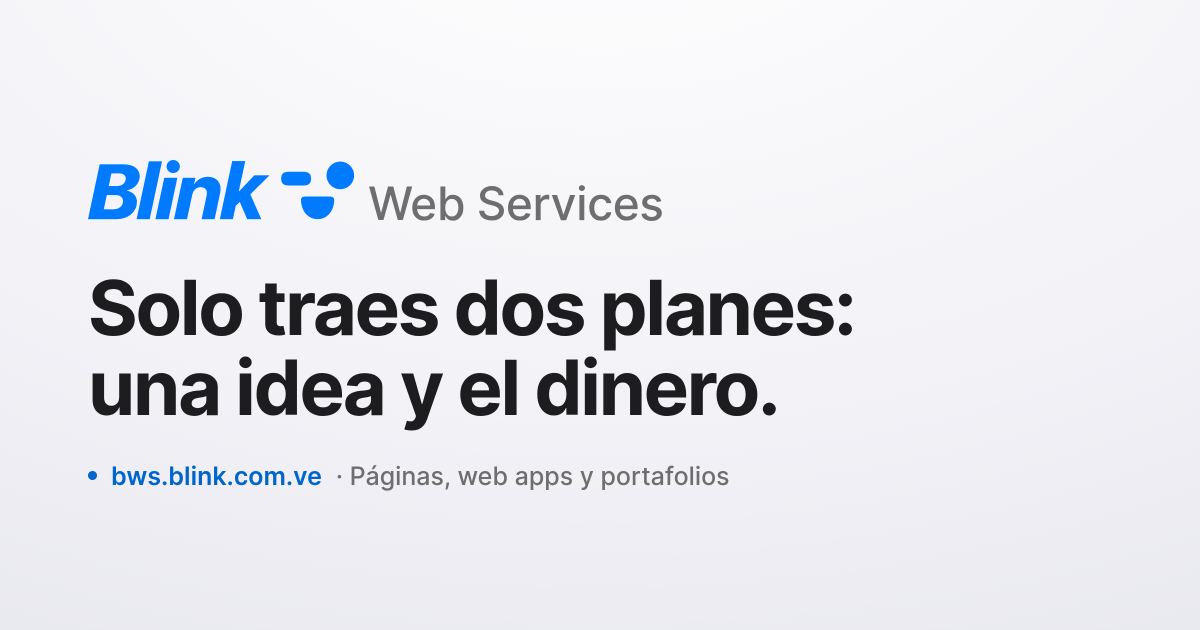
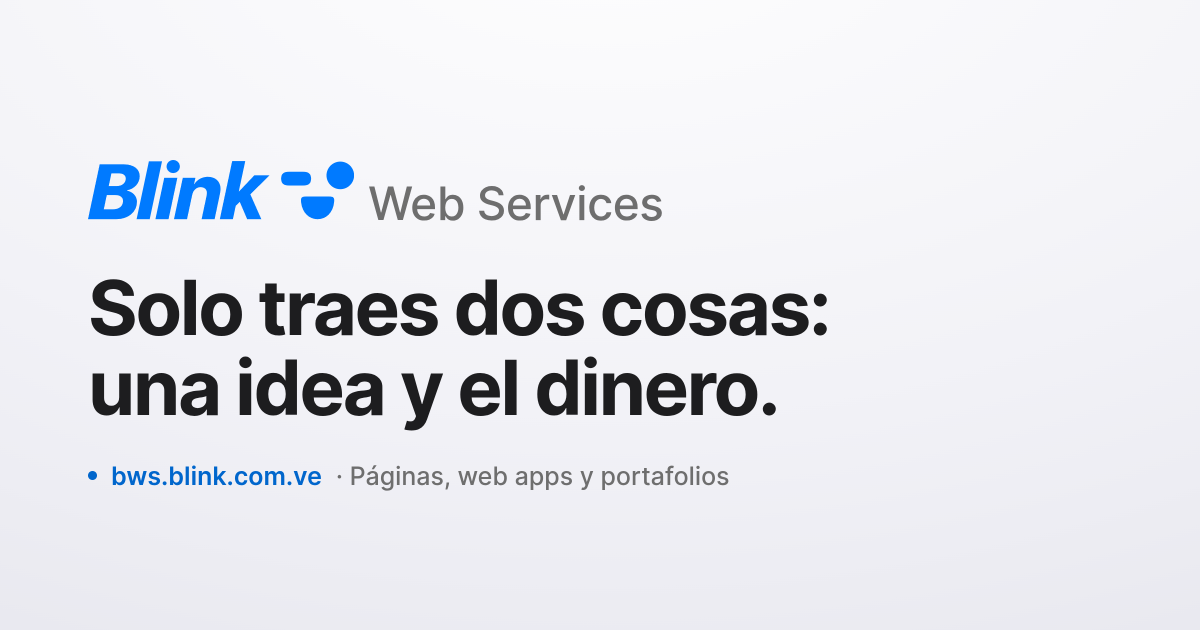
Cambia la frase ancla a «Solo traes dos cosas»
El titular del hero decía «dos planes»; el dueño de la marca lo corrige
a «dos cosas». Se mueven las cinco cadenas de `index.html` (title,
og:title, og:image:alt, twitter:title, twitter:image:alt), el `HERO` de
`contenido.ts`, el `<h1>` que pinta `scripts/og.mjs` y el README.

La tarjeta social lleva el titular dibujado, así que `public/og.png` se
regenera con `npm run og` en vez de editar el PNG a mano.

El corte del titular vuelve a medirse con `scripts/medir-titular.mjs`,
que ahora también prueba 2,375rem: en un iPhone de 390 la frase nueva da
3 líneas [249, 272, 190] a 38 px y 2 líneas [314, 292] a 32 px dentro de
los 358 px del contenedor. El mínimo del `clamp()` se queda en 2rem por
la misma razón de antes, con números nuevos en el comentario del CSS.

Verificado tras el cambio: build limpio, cero overflow horizontal en
390/768/1440 y axe sin violaciones en los dos anchos.

`.capturas.zip` pasa al `.gitignore`: es un zip de un directorio que ya
estaba ignorado y no tiene por qué viajar al repo.

Changed region(s): [[0.4933, 0.4222, 0.7092, 0.573]]

diff --git a/index.html b/index.html
@@ -3,7 +3,7 @@
 <head>
   <meta charset="utf-8">
   <meta name="viewport" content="width=device-width, initial-scale=1">
-  <title>Blink Web Services — Solo traes dos planes: una idea y el dinero</title>
+  <title>Blink Web Services — Solo traes dos cosas: una idea y el dinero</title>
   <meta name="description" content="Páginas web, web apps y portafolios. Tu dirección en Internet, tu correo con el nombre de tu empresa y todo el trámite por nuestra cuenta. El cliente solo llega con una idea y dinero para pagarla.">
   <link rel="canonical" href="https://bws.blink.com.ve/">
   <meta name="theme-color" content="#ffffff">
@@ -12,18 +12,18 @@
   <meta property="og:type" content="website">
   <meta property="og:site_name" content="Blink Web Services">
   <meta property="og:locale" content="es_VE">
-  <meta property="og:title" content="Blink Web Services — Solo traes dos planes: una idea y el dinero">
+  <meta property="og:title" content="Blink Web Services — Solo traes dos cosas: una idea y el dinero">
   <meta property="og:description" content="Páginas web, web apps y portafolios. Del resto nos encargamos nosotros: el trámite, la publicación y que todo siga andando.">
   <meta property="og:url" content="https://bws.blink.com.ve/">
   <meta property="og:image" content="https://bws.blink.com.ve/og.png">
   <meta property="og:image:width" content="1200">
   <meta property="og:image:height" content="630">
-  <meta property="og:image:alt" content="Blink Web Services — Solo traes dos planes: una idea y el dinero.">
+  <meta property="og:image:alt" content="Blink Web Services — Solo traes dos cosas: una idea y el dinero.">
   <meta name="twitter:card" content="summary_large_image">
-  <meta name="twitter:title" content="Blink Web Services — Solo traes dos planes: una idea y el dinero">
+  <meta name="twitter:title" content="Blink Web Services — Solo traes dos cosas: una idea y el dinero">
   <meta name="twitter:description" content="Páginas web, web apps y portafolios. Del resto nos encargamos nosotros.">
   <meta name="twitter:image" content="https://bws.blink.com.ve/og.png">
-  <meta name="twitter:image:alt" content="Blink Web Services — Solo traes dos planes: una idea y el dinero.">
+  <meta name="twitter:image:alt" content="Blink Web Services — Solo traes dos cosas: una idea y el dinero.">
 
   <link rel="icon" href="/favicon.svg" type="image/svg+xml">
   <link rel="icon" href="/favicon.png" sizes="512x512" type="image/png">

diff --git a/src/styles/landing.css b/src/styles/landing.css
@@ -50,11 +50,11 @@
   /* --- Escala de marketing (extensión documentada de iOS 27) --- */
   /* El mínimo manda solo por debajo de ~516 px de ventana, y ahí es
      donde se decide el corte del titular. Con 2,375rem (38 px) la frase
-     ancla caía en 3 líneas y `text-wrap: balance` partía «planes: una»
-     por la mitad; con 2rem (32 px) mide 324 + 292 px dentro de los
-     358 px disponibles en un iPhone de 390 y el quiebre queda justo
-     después de los dos puntos, que es el quiebre de la frase. Medido con
-     `scripts/medir-titular.mjs`, no calculado a ojo. */
+     ancla caía en 3 líneas — [249, 272, 190] — y `text-wrap: balance`
+     partía «cosas: una» por la mitad; con 2rem (32 px) mide 314 + 292 px
+     dentro de los 358 px disponibles en un iPhone de 390 y el quiebre
+     queda justo después de los dos puntos, que es el quiebre de la frase.
+     Medido con `scripts/medir-titular.mjs`, no calculado a ojo. */
   --lp-fs-hero: clamp(2rem, 6.2vw, 4.75rem);
   --lp-fs-seccion: clamp(2rem, 4.8vw, 3.5rem);
   --lp-fs-beneficio: clamp(1.375rem, 2.5vw, 2rem);

diff --git a/src/lib/contenido.ts b/src/lib/contenido.ts
@@ -56,7 +56,7 @@ export const NAV = [
 ];
 
 export const HERO = {
-  titulo: "Solo traes dos planes: una idea y el dinero.",
+  titulo: "Solo traes dos cosas: una idea y el dinero.",
   /** La bajada tiene que explicar el negocio de una, porque el titular
       solo no vende: hay que decir qué se lleva uno a cambio. */
   sub: "Nosotros nos encargamos del resto: tu página, tu dirección en Internet y tus correos.",

diff --git a/README.md b/README.md
@@ -1,7 +1,7 @@
 # Blink Web Services — bws.blink.com.ve
 
 La landing de la división de Blink que pone proyectos en Internet. El
-cliente trae dos planes: una idea y el dinero para pagarla. Del resto —
+cliente trae dos cosas: una idea y el dinero para pagarla. Del resto —
 el nombre, el correo, el diseño, la publicación — se encarga BWS, y esa
 es la única promesa que el sitio hace en voz alta.
 
@@ -82,9 +82,9 @@ La proporción del lockup no está a ojo, está medida:
   contenedor). Antes cada pieza tenía su propio `clamp()` y el descriptor
   se quedó a 0,27 de la mayúscula del wordmark en la captura de 1440.
 - `scripts/medir-titular.mjs` decide el mínimo del `clamp()` del titular:
-  con 38 px la frase ancla caía en 3 líneas y partía «planes: una» por la
-  mitad; con 32 px mide 324 + 292 px en los 358 disponibles y el quiebre
-  cae después de los dos puntos.
+  con 38 px la frase ancla caía en 3 líneas [249, 272, 190] y partía
+  «cosas: una» por la mitad; con 32 px mide 314 + 292 px en los 358
+  disponibles y el quiebre cae después de los dos puntos.
 
 En pantallas de menos de 421 px el descriptor pasa a la sigla «BWS»; el
 HTML lleva los dos textos y solo cambia la visibilidad.
